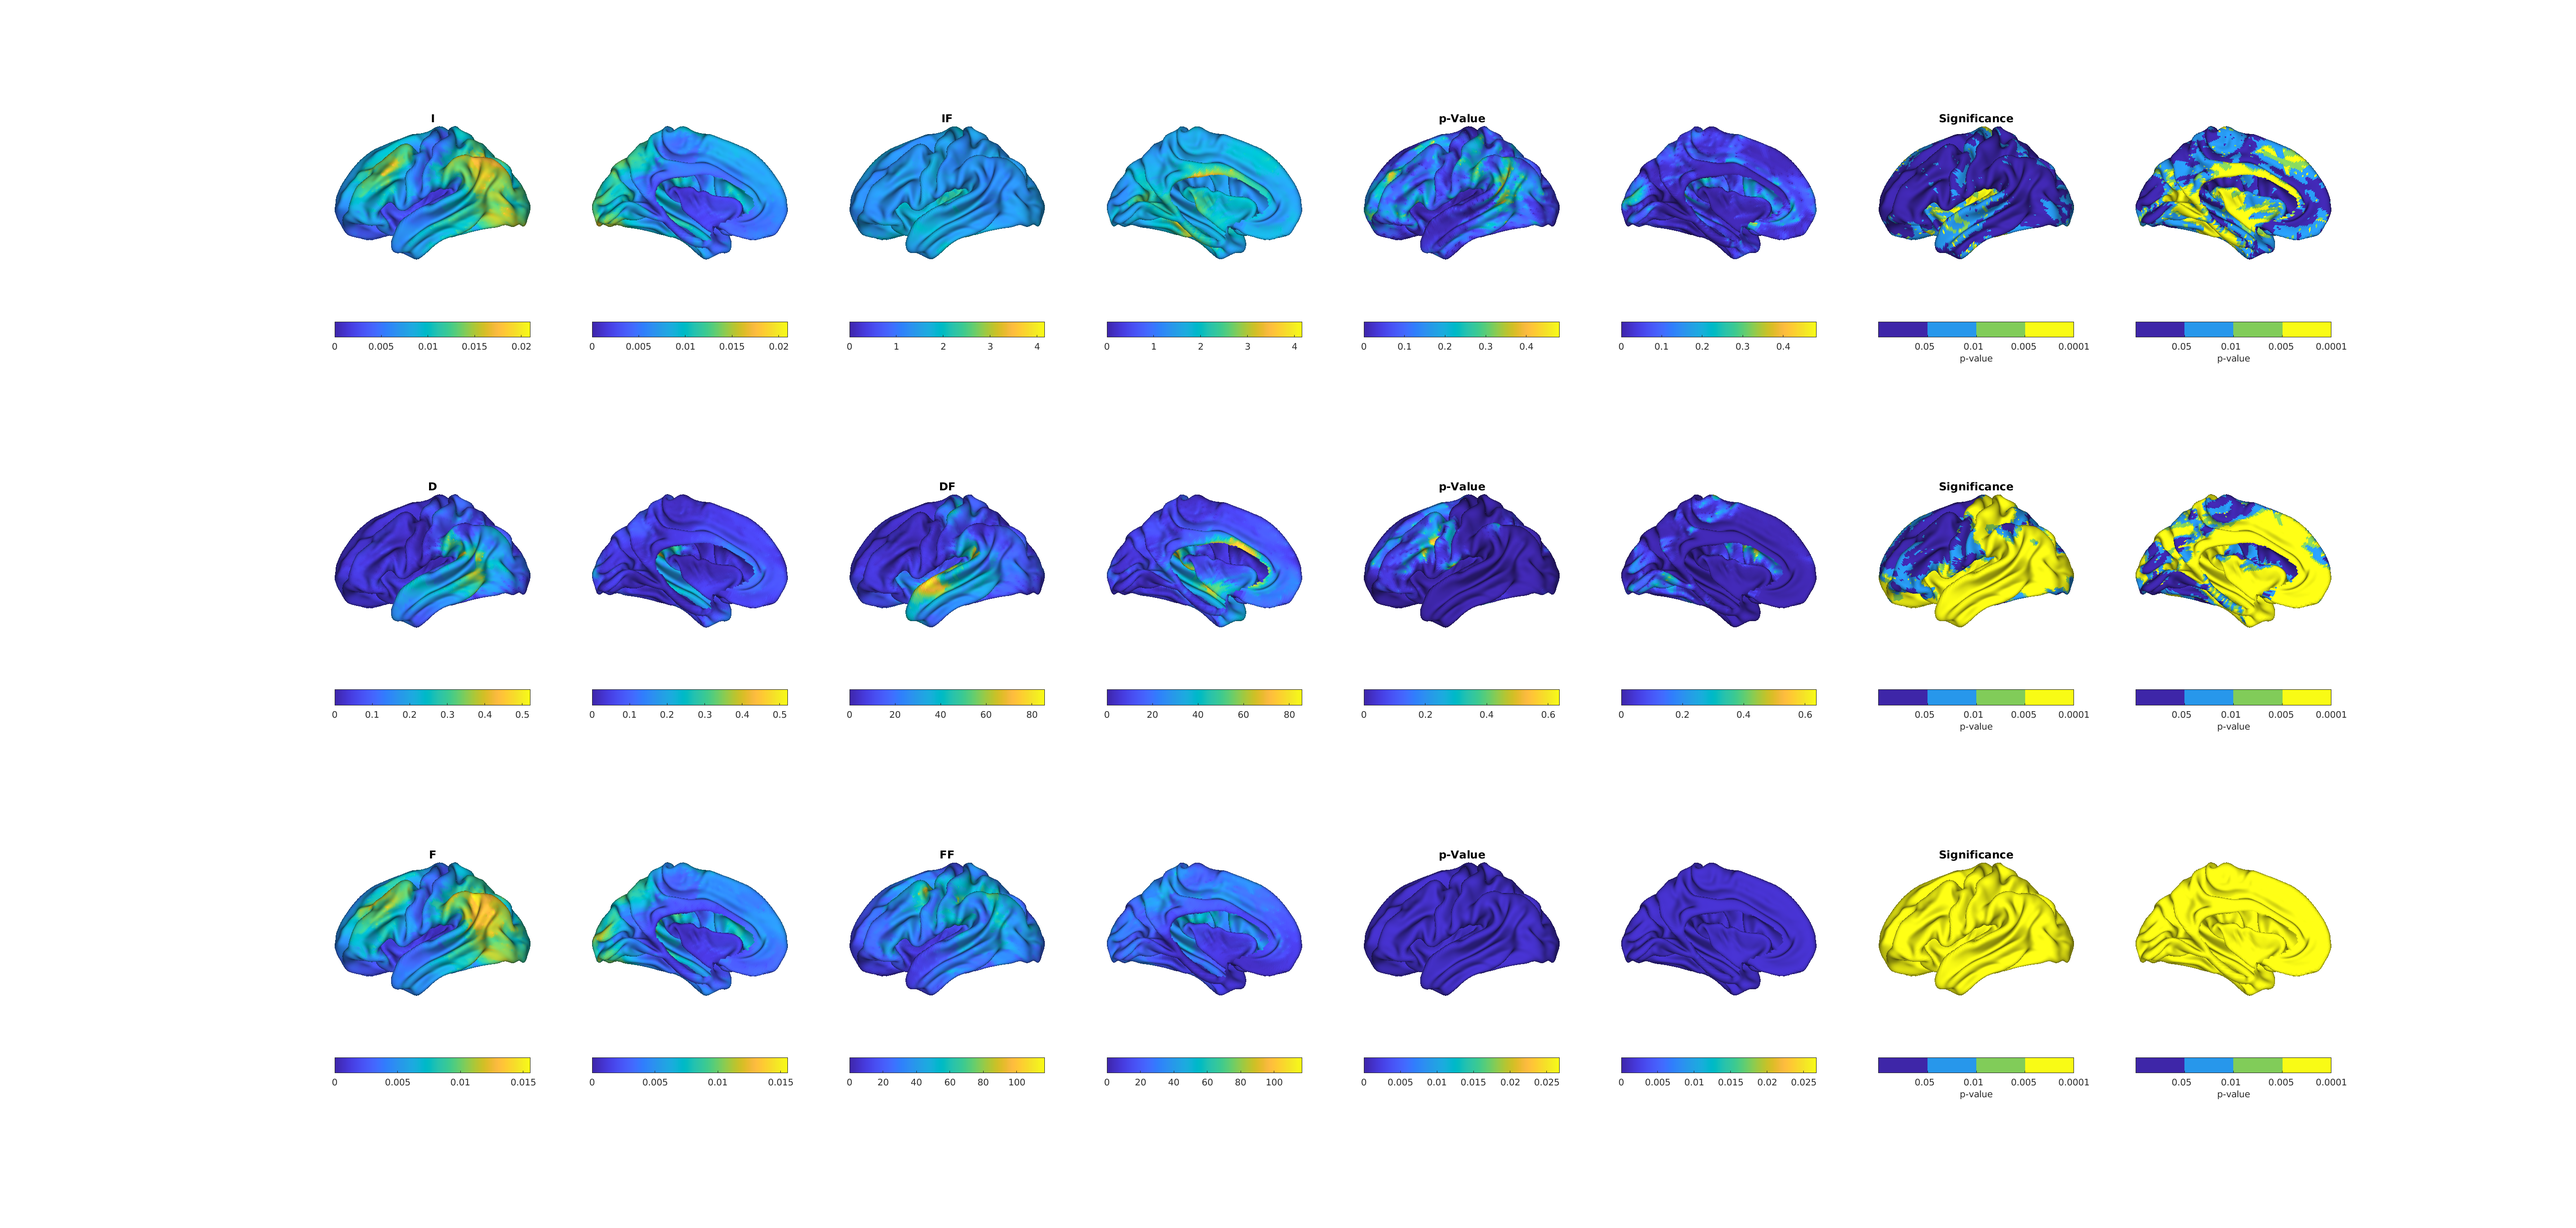
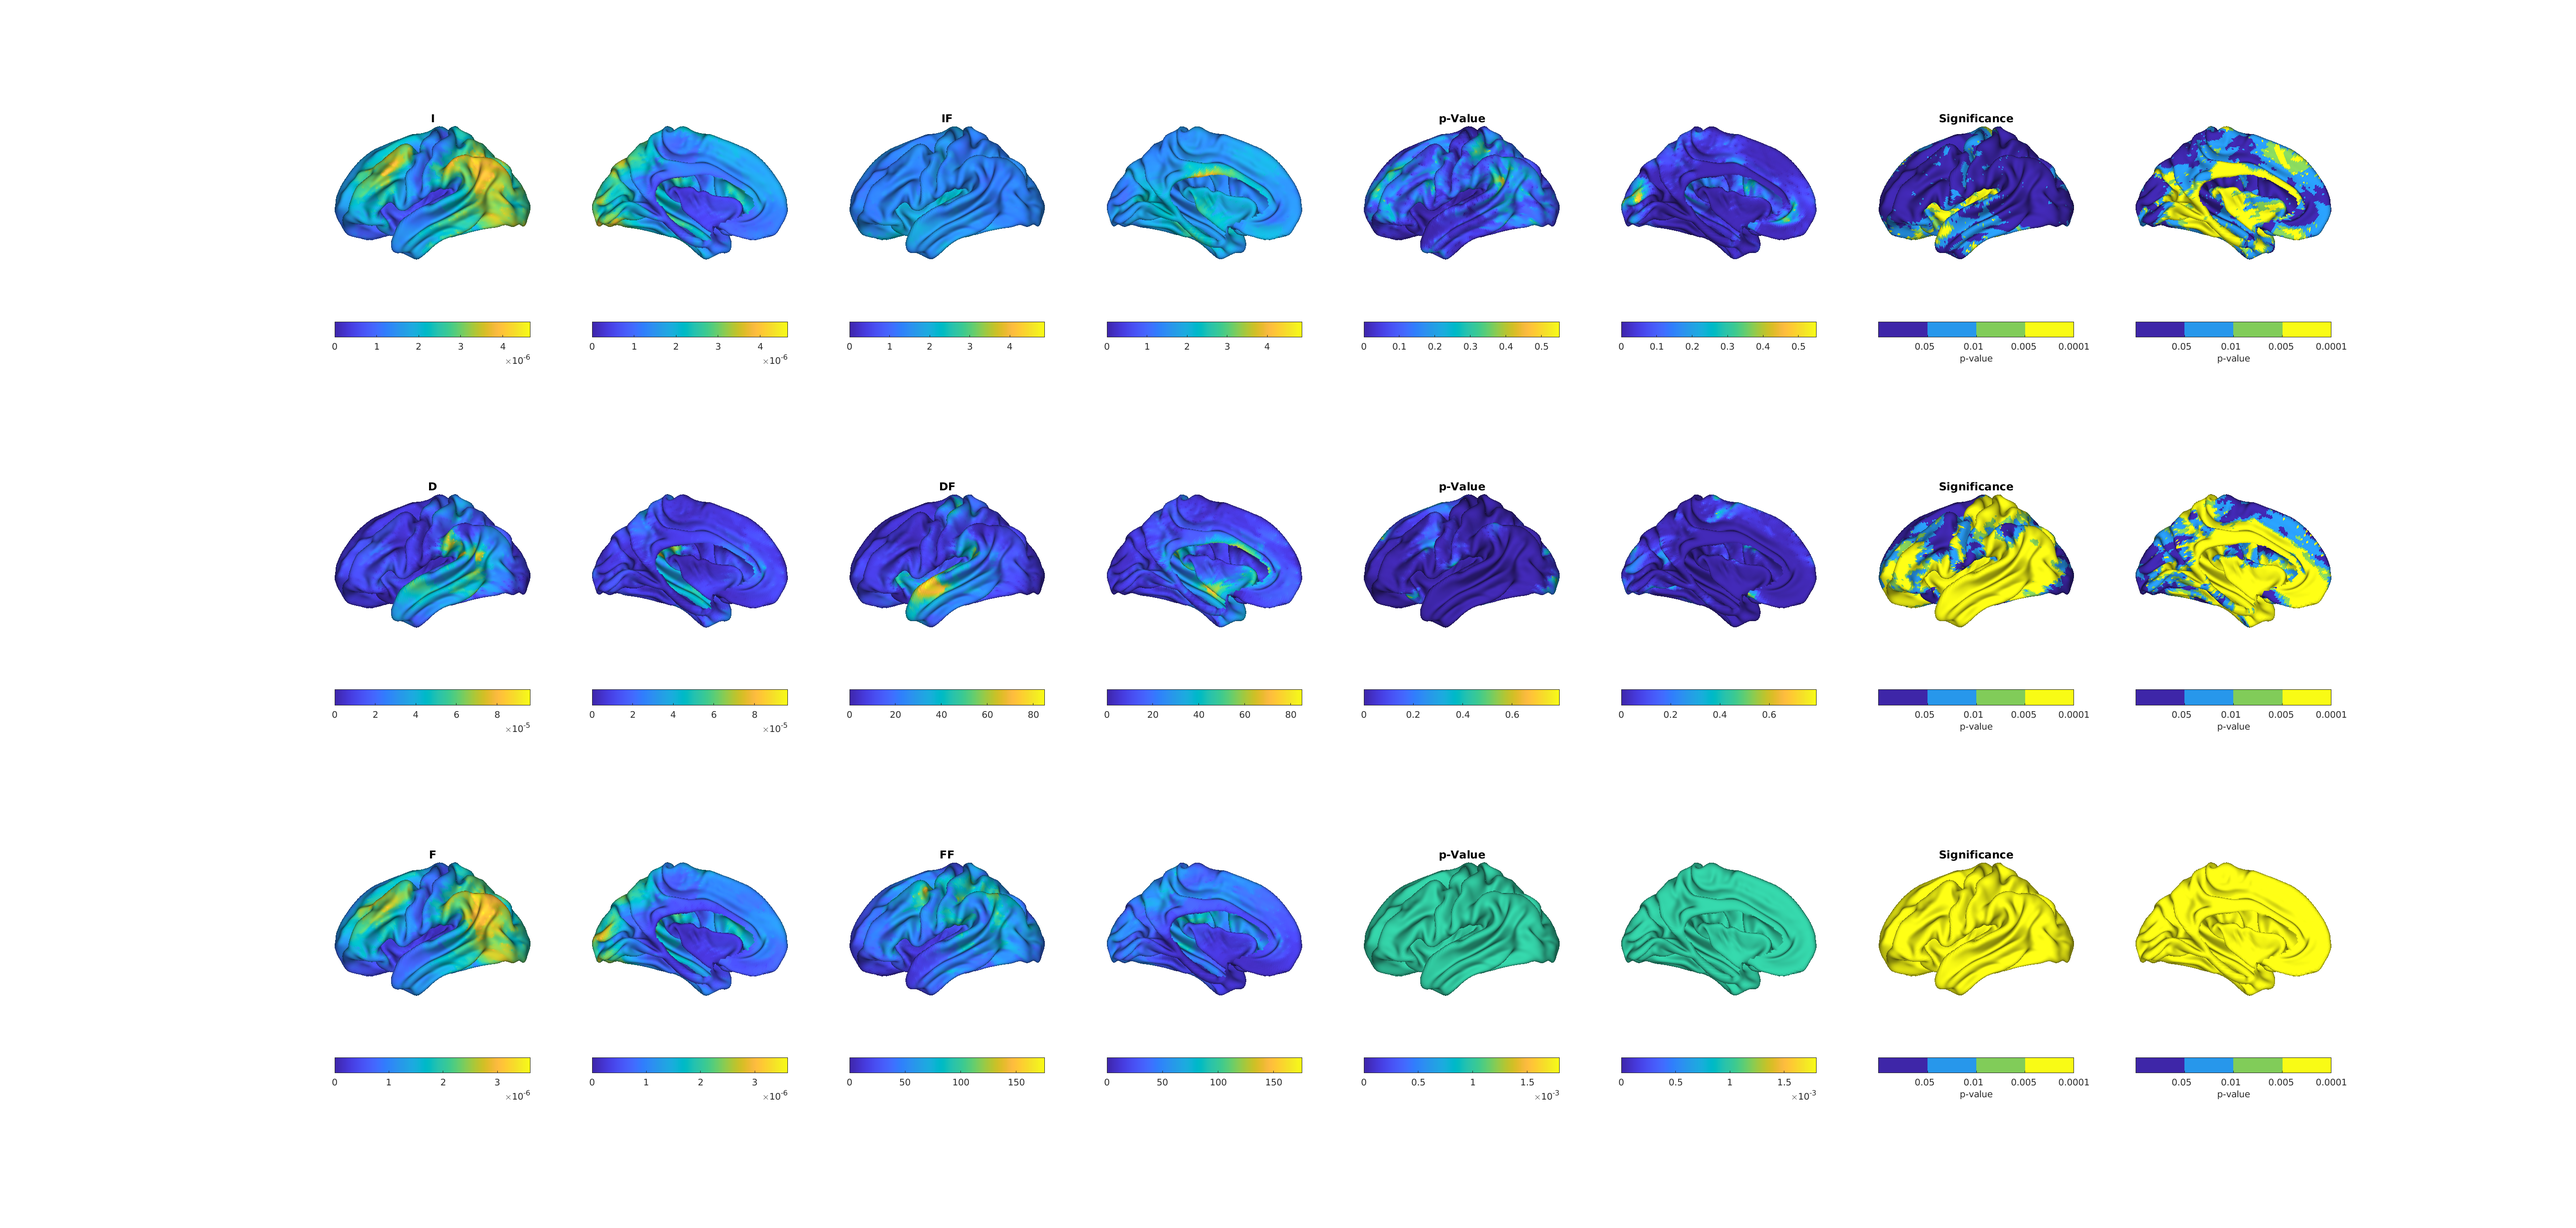
Fixed a problem concerning alignment of test retest data and GPA
Former-commit-id: 0f0262539a2b20237b50a2be926bbc4d9a089a46

diff --git a/matlab/demoBrainAsymmetry.m b/matlab/demoBrainAsymmetry.m
@@ -147,24 +147,13 @@ nLandmarks = length(preprocLandmarksIndices);
 %%SAMPLE_DATA
 % clear DATA;
 %%
-symmetric = (preprocLH + preprocRH)/2;
-asymmetric = (preprocLH - preprocRH);
-%%
-arr = asymmetric;
-arr = reshape(arr, [size(arr,1) * size(arr,2) size(arr,3)])';
-[coeff, score, latent, tsquared, explained] = pca(arr, "NumComponents", 100);
-f = figure;
-plot(cumsum(explained));
-savefig(f, [RESULTS_DIR, 'asymmetricPCAExplained.fig']);
-
-
 repPreprocRH = zeros([size(preprocRH), nRep + 1], 'single');
 repPreprocLH = zeros([size(preprocRH), nRep + 1], 'single');
 repPreprocRH(:, :, :, 1) = single(preprocRH);
 repPreprocLH(:, :, :, 1) = single(preprocLH);
 if nRep > 1
-    mstdLH = sqrt(testRetestVariance.LH(preprocLandmarksIndices, :));
-    mstdRH = sqrt(testRetestVariance.RH(preprocLandmarksIndices, :));
+    mstdLH = sqrt(testRetestVariance.LH);
+    mstdRH = sqrt(testRetestVariance.RH);
     for i = 2: nRep + 1
         repPreprocRH(:, :, :, i) = single(preprocRH + randn(size(preprocRH)) .* mstdRH) ;
         repPreprocLH(:, :, :, i) = single(preprocLH + randn(size(preprocLH)) .* mstdLH);
@@ -256,7 +245,7 @@ outRH = mean(var(alignedRH,0,4),3);
 %midsaggital plane
 f = figure;
 hist(outLH - outRH);
-title('Difference between measurement variances of contralateral and symmetrical, as of the midsaggital plane, landmarks')
+title({'Difference between measurement variances of contralateral and symmetrical,', 'as of the midsaggital plane, landmarks'})
 saveas(f, [resultsDir 'testRetestVarDiff.png'])
 variance.LH = outLH;
 variance.RH = outRH;
